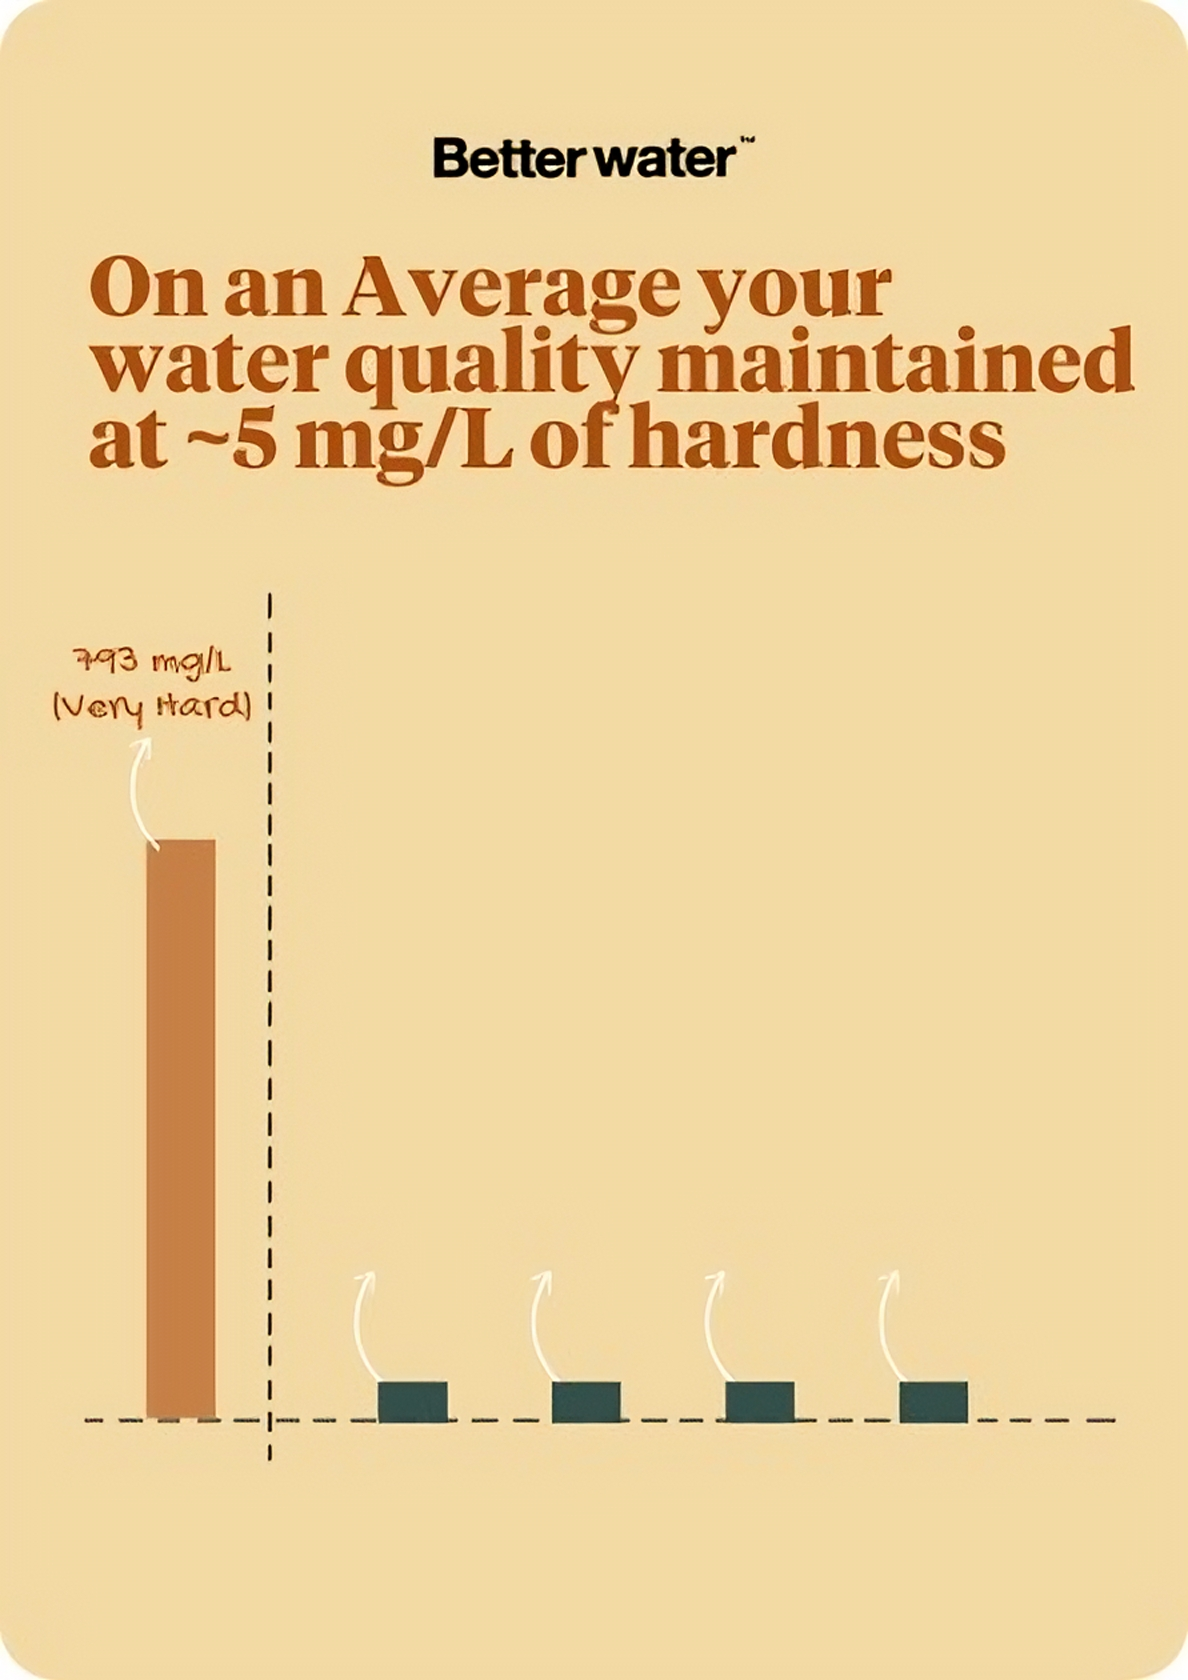
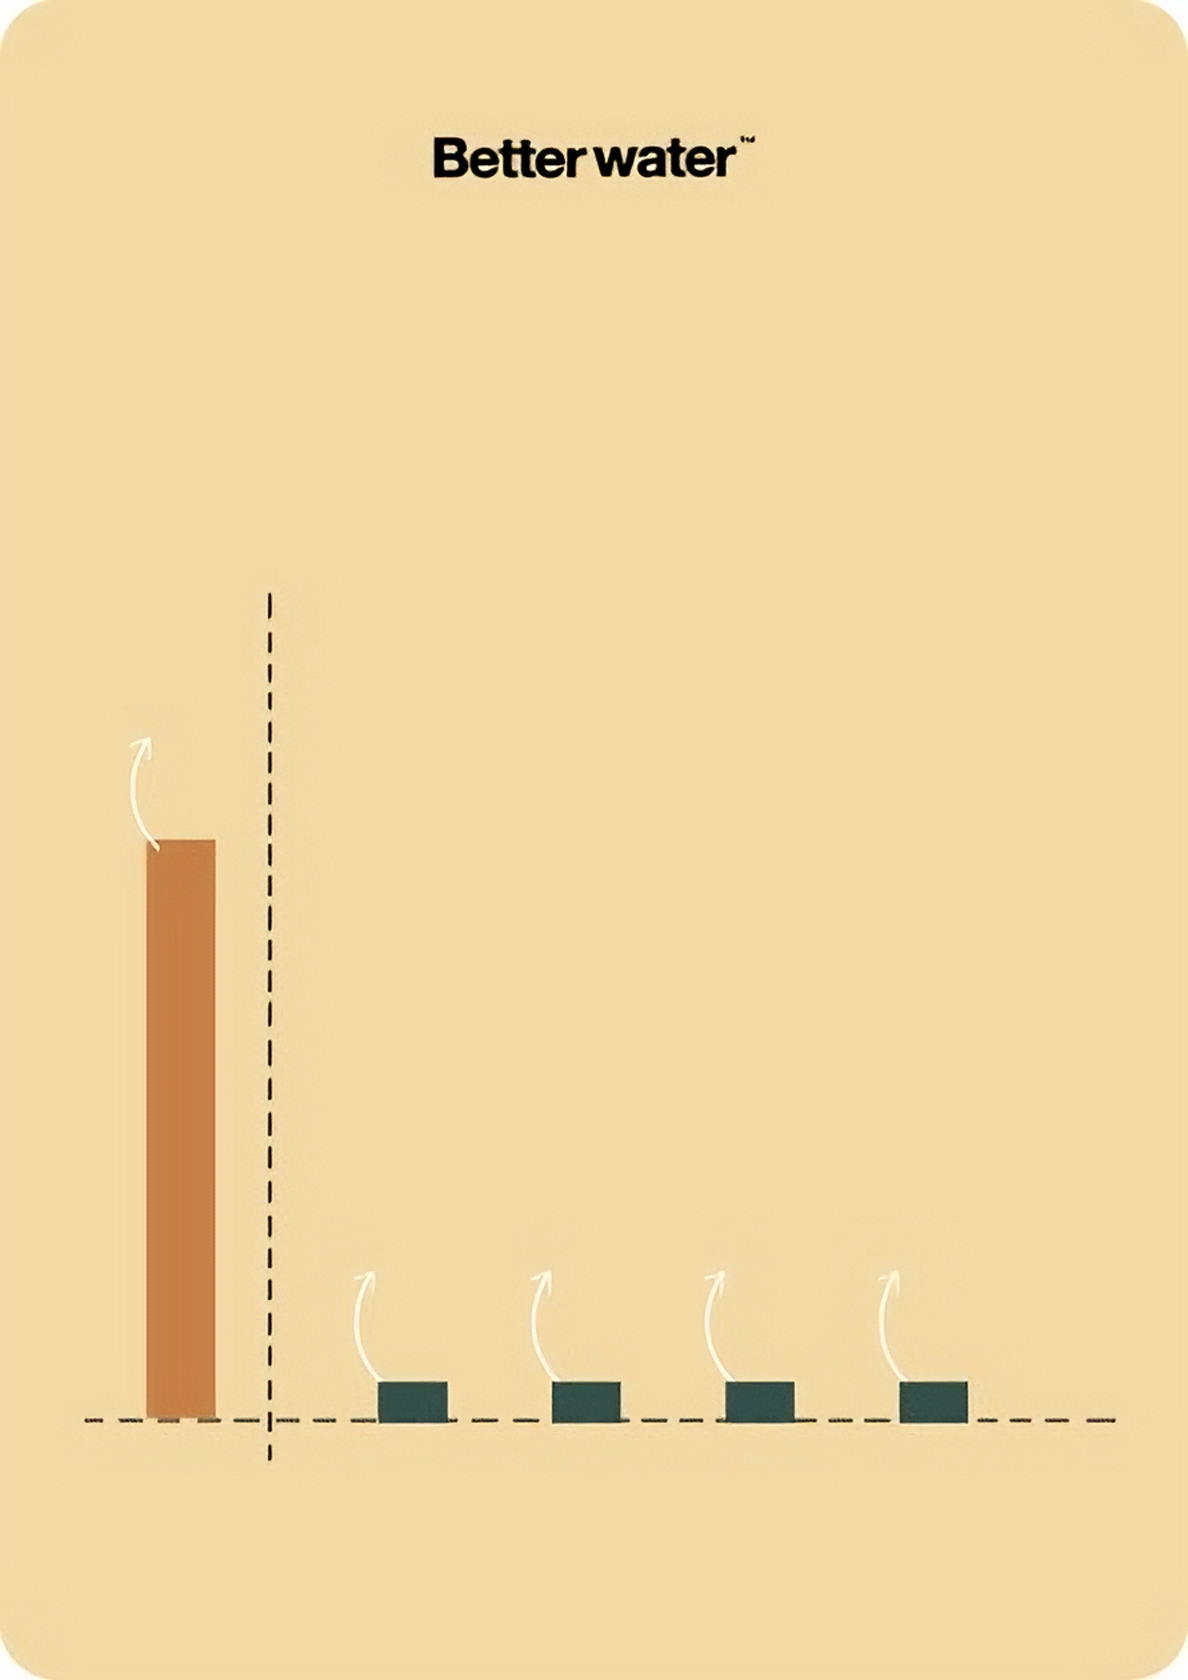
water report update

Changed region(s): [[0.0623, 0.1548, 0.9655, 0.3095], [0.0311, 0.3714, 0.218, 0.4333]]

diff --git a/src/layouts/WaterReportsTemplate.jsx b/src/layouts/WaterReportsTemplate.jsx
@@ -67,6 +67,12 @@ const userName = `${customer?.user?.first_name || ''} ${customer?.user?.last_nam
   .slice(0, 4); // or remove slice to show all
 
 console.log("water sorted", waterQualityData);
+
+const avgHardness = waterQualityData.length
+  ? waterQualityData.reduce((sum, item) => sum + item.hardness, 0) / waterQualityData.length
+  : 0;
+
+  console.log("avg hardness", avgHardness);
       
   
   const customerId = customer?.user?._id;
@@ -99,7 +105,7 @@ console.log("water sorted", waterQualityData);
               <div>2025-01-01</div>
             </div> */}
             {Array.isArray(waterQualityData) && (
-  <div className='absolute right-[140px] text-[#f3daa5] space-y-4 text-[25px] top-[338px]'>
+  <div className='absolute top-[338px] right-[140px] text-[#f3daa5] space-y-4 text-[25px] '>
     {waterQualityData.map((entry) => (
       <div key={entry.id}>{entry.date}</div>
     ))}
@@ -142,6 +148,23 @@ console.log("water sorted", waterQualityData);
     </div>
   </>
 )}
+                <div className="absolute inset-0">
+  <div className="relative w-full h-full">
+    {/* Big Number */}
+<div className="absolute top-[150px] text-4xl font-extrabold text-[#a4551b] pl-16">
+  <div className="whitespace-normal break-words">
+    On an Average your water quality maintained at ~ {avgHardness} mg/L of hardness
+  </div>
+</div>
+
+    {/* Label */}
+    <div className="absolute top-[350px] left-[50px] text-[#a4551b] font-bold">
+      <div>{customer?.user?.waterHardness} mg/L</div>
+      <div>(very Hard)</div>
+    </div>
+  </div>
+</div>
+
 
           </div>
         )

diff --git a/src/pages/dashboard/WaterReports.jsx b/src/pages/dashboard/WaterReports.jsx
@@ -141,6 +141,7 @@ function WaterReports() {
           first_name: customer.first_name,
           last_name: customer.last_name,
           contact_number: customer.contact_number,
+          waterHardness: customer.cf_current_water_hardness_ppm,
         },
         scores: {},
       };
